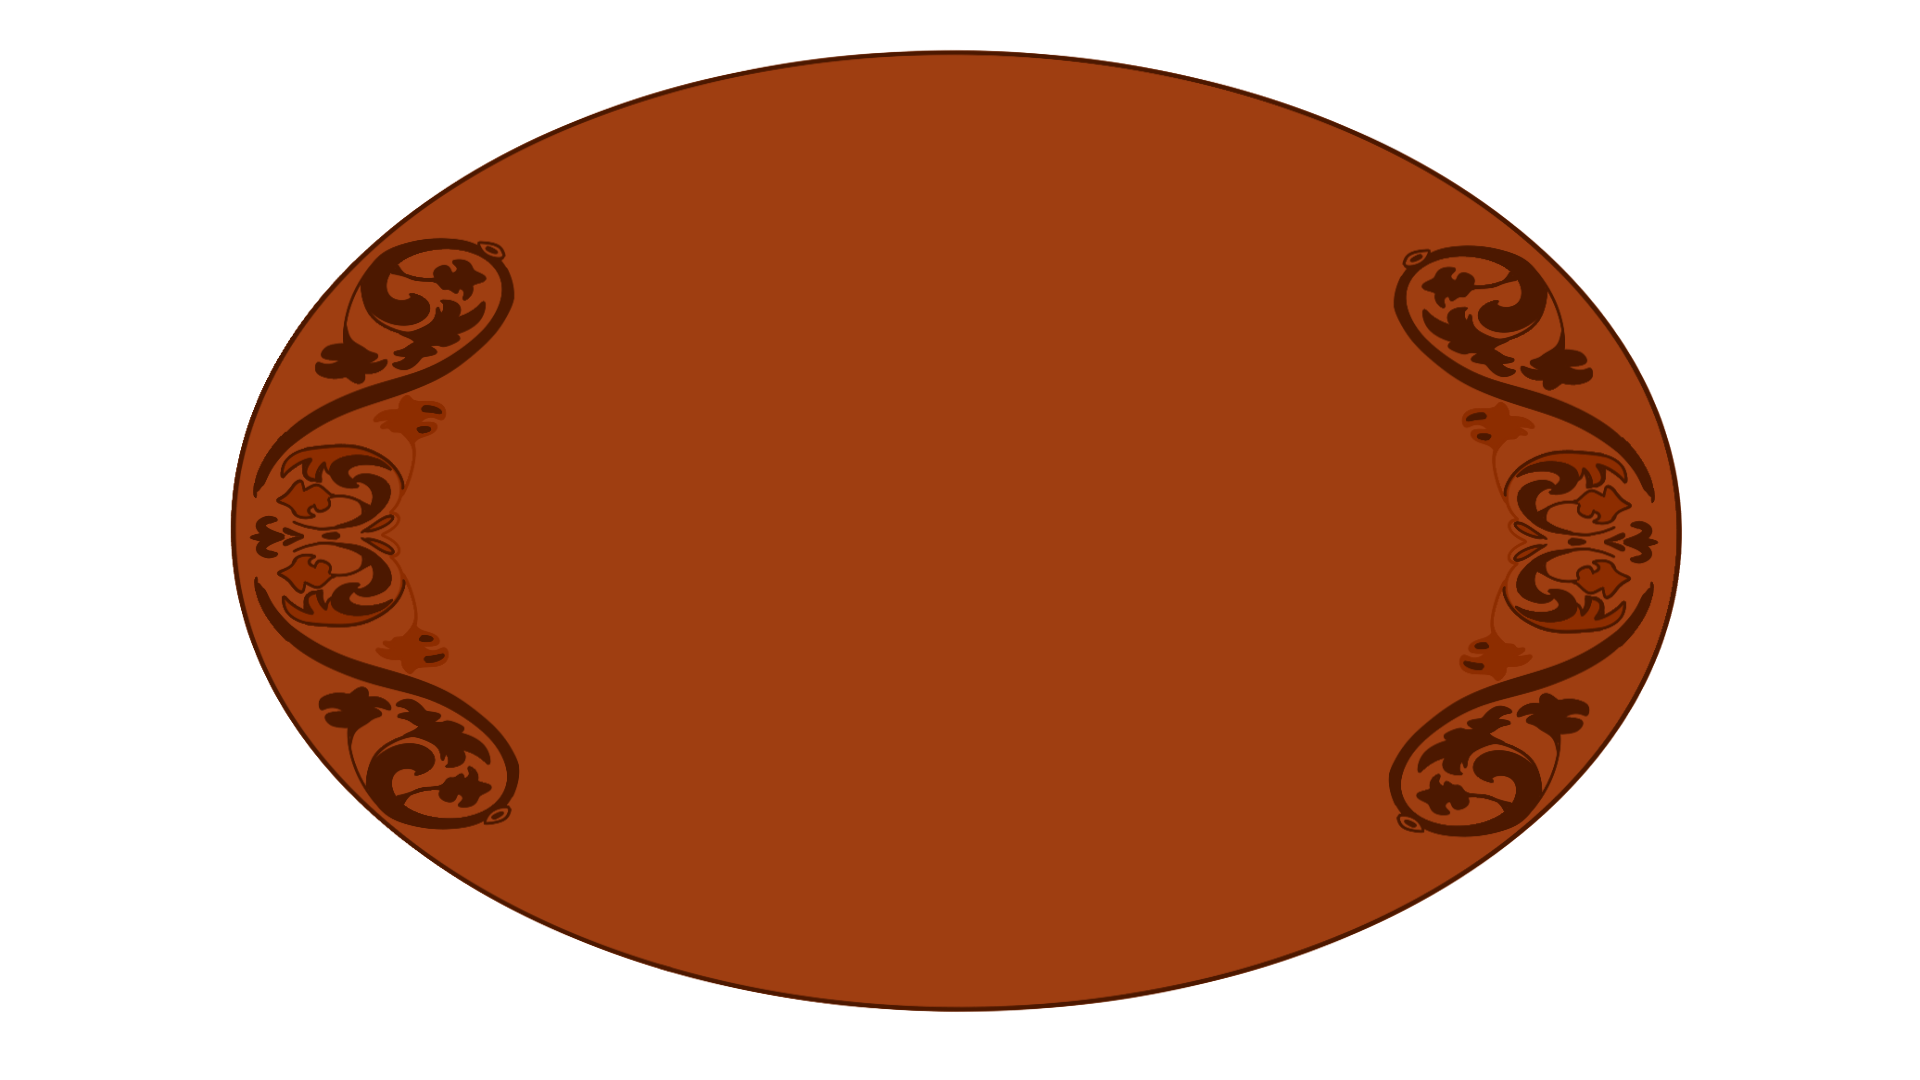
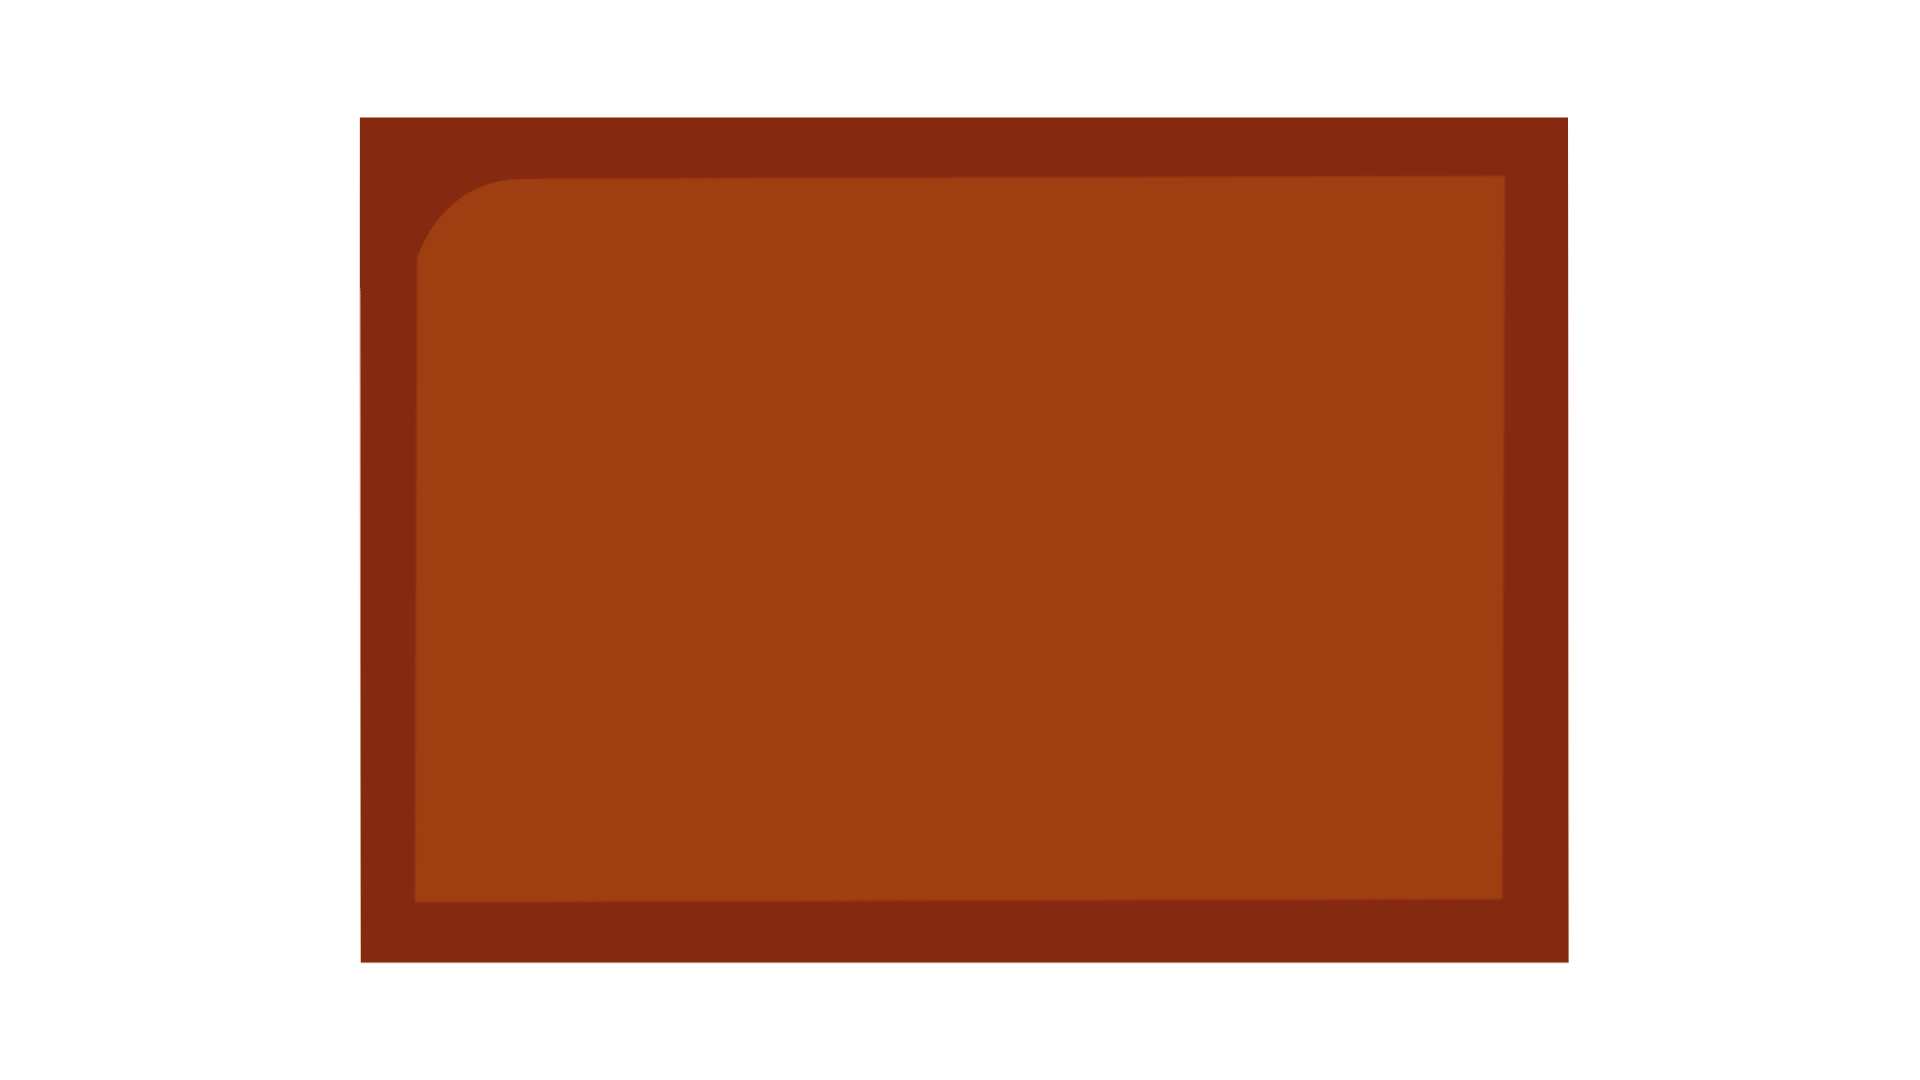
menus

Changed region(s): [[0.0938, 0.0306, 0.875, 0.9472]]

diff --git a/docs/src/escenaOpciones.js b/docs/src/escenaOpciones.js
@@ -20,8 +20,8 @@ export default class EscenaOpciones extends Phaser.Scene {
         this.volver = this.add.text(this.cameras.main.width / 2, this.cameras.main.height / 2, 'volver', {
             fontFamily: 'Georgia, "Times New Roman", serif',
             fontSize: '150px',
-            color: '#ff5100ff',
-            stroke: '#561b00ff',
+            color: '#471600ff',
+            stroke: '#3e1401ff',
             strokeThickness: 6,
             align: 'center'
         })
@@ -35,8 +35,16 @@ export default class EscenaOpciones extends Phaser.Scene {
             this.scene.resume('EscenaPausa');
         });
 
+        this.volver.on("pointerover", () => {
+            this.volver.setStyle({ fontSize: '175px' });
+        });
+
+        this.volver.on("pointerout", () => {
+            this.volver.setStyle({ fontSize: '150px' });
+        });
+
         // PANTALLA COMPLETA
-        const fullscreenButton = this.add.image(this.cameras.main.width / 2, this.cameras.main.height / 4, 'boton').setInteractive(); // Ajusta la escala si es necesario
+        const fullscreenButton = this.add.image(this.cameras.main.width / 2, this.cameras.main.height / 3, 'botonPantalla').setInteractive().setScale(0.5); // Ajusta la escala si es necesario
         fullscreenButton.on('pointerup', () => {
             if (this.scale.isFullscreen) {
                 this.scale.stopFullscreen();
@@ -46,7 +54,13 @@ export default class EscenaOpciones extends Phaser.Scene {
             this.scale.on('resize', this.onResize, this);
         });
 
+        fullscreenButton.on('pointerover', () => {
+            fullscreenButton.setScale(0.55);
+        });
 
+        fullscreenButton.on('pointerout', () => {
+            fullscreenButton.setScale(0.5);
+        });
     }
 
     onResize(gameSize) {

diff --git a/docs/src/juego.js b/docs/src/juego.js
@@ -43,25 +43,24 @@ export default class Juego extends Phaser.Scene {
     this.desbloquearMovil = this.game.audioManager.fx("desbloquearMovil");
 
     this.musicaMenu.play();
-    // Dentro del create() de la nueva escena
+   
     this.cameras.main.fadeIn(1000, 0, 0, 0);
-    // Personalizar textos solo la primera vez
+   
     if (!this.registry.get('textosPersonalizados')) {
       const textosBase = this.cache.json.get('es');  // Tu JSON de diálogos
       const textosPersonalizados = this.reemplazarEnJson(textosBase, this.playerData);
 
-      // ⚠ Importante: Phaser devuelve una referencia viva, así que esto modifica el JSON global
       Object.assign(textosBase, textosPersonalizados);
 
-      // Marca que ya se hizo el reemplazo
+      //Marca que ya se hizo el reemplazo
       this.registry.set('textosPersonalizados', true);
-      // Marcar el cuestionario como completado
+      //Marcar el cuestionario como completado
       this.registry.set('cuestionarioCompletado', true);
 
     }
 
     //VENTANA
-    this.scrollSpeed = 0.4; // velocidad del movimiento (ajústala)
+    this.scrollSpeed = 0.1;
     this.ventana1 = this.add.image(0, 0, 'ventana1').setOrigin(0, 0);
     this.ventana2 = this.add.image(this.ventana1.width, 0, 'ventana2').setOrigin(0, 0);
     this.ventana3 = this.add.image(this.ventana1.width * 2, 0, 'ventana3').setOrigin(0, 0);

diff --git a/docs/src/escenaCarga.js b/docs/src/escenaCarga.js
@@ -90,6 +90,7 @@ export default class EscenaCarga extends Phaser.Scene {
     this.load.image('flecha', './assets/flecha.png');
     this.load.image('tutorialV', './assets/tutorialV.png');
     this.load.image('flechaA', './assets/flechaArriba.png');
+    this.load.image('botonPantalla', './assets/pantallaGrande.png');
 
     //MUSICA
     this.load.audio('musicaPrincipal', './musica/musicaPrincipal.mp3');
